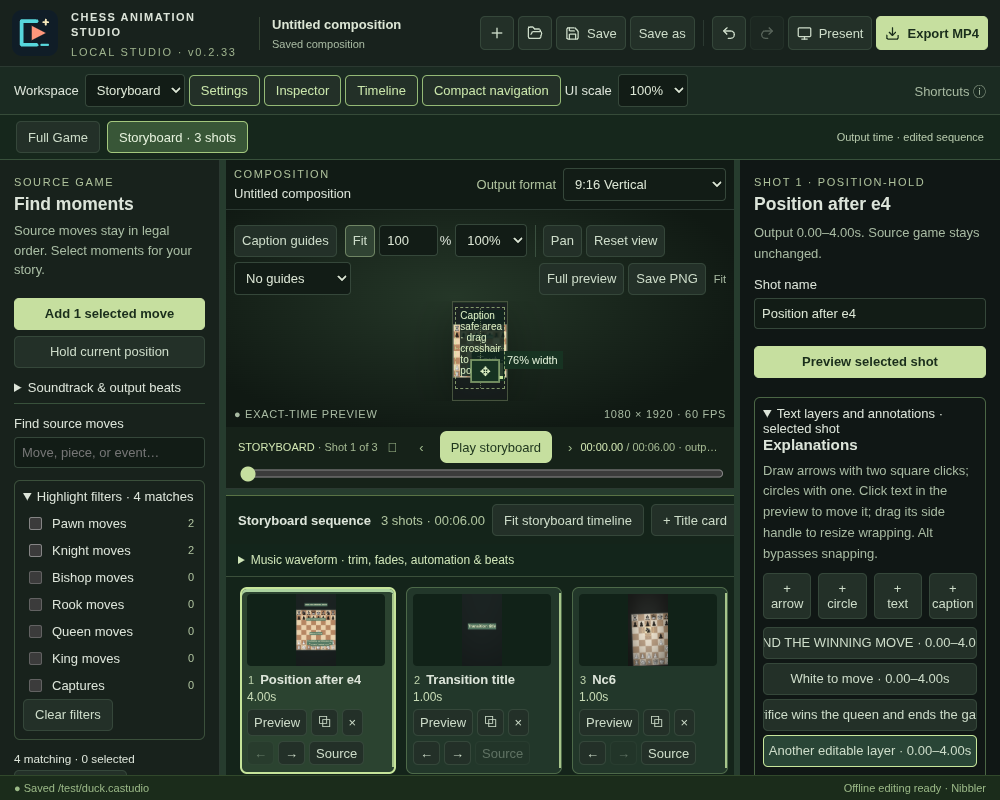
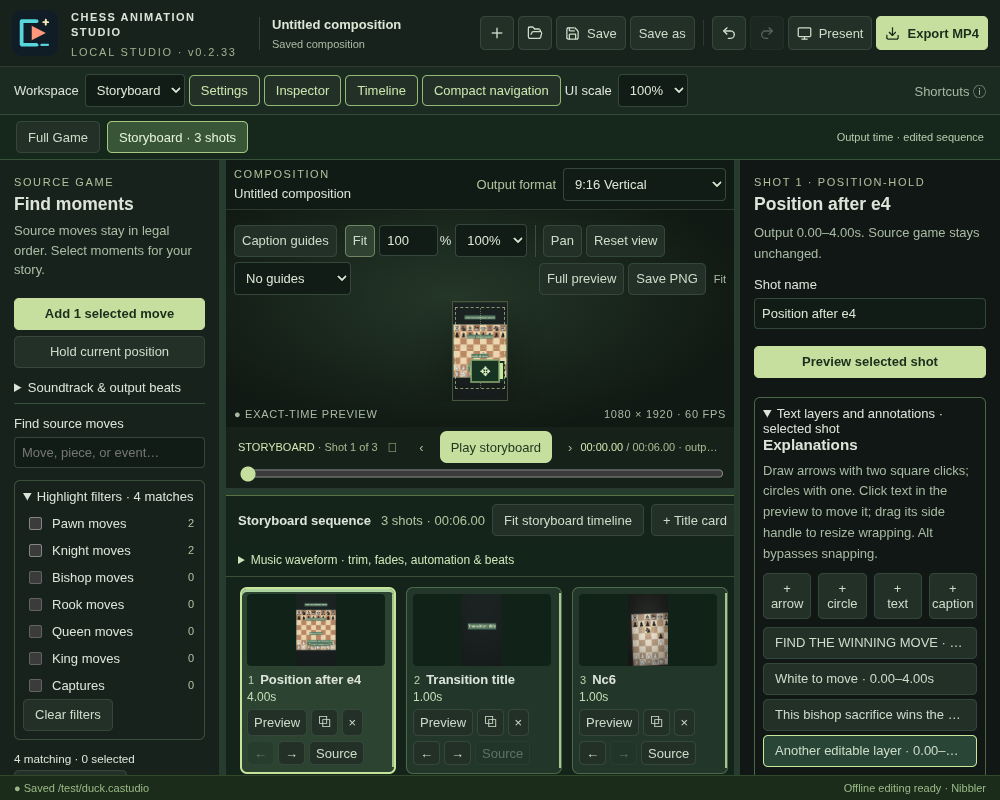
fix: keep text layers and guides readable in narrow workspaces

diff --git a/src/ui/storyboard/storyboard.css b/src/ui/storyboard/storyboard.css
@@ -608,3 +608,14 @@
 .annotation-editor .layer-actions button {
   flex: 1 1 80px;
 }
+/* Layer labels keep their leading words when space is limited. */
+.text-layer-list button {
+  display: block;
+  width: 100%;
+}
+@media (max-width: 1100px) {
+  .caption-guides > span,
+  .text-layer-label {
+    display: none;
+  }
+}

diff --git a/docs/composition-033/REPORT.md b/docs/composition-033/REPORT.md
@@ -87,3 +87,5 @@ The composition UI suite additionally passed topmost overlapping-layer selection
 `npm run test:render -- final` passed **216 render requests / 168 unique fixtures**, including graphics recovery and repeated-size rendering. It measured software-rendered 1080p median frame costs of 733.7 ms without bloom and 851.6 ms with bloom under local validation load; 4K medians were 1578.5/2007.9 ms. These figures describe this SwiftShader environment, not interactive physical GPU frame rates. Transition textures are allocated on first use and retained for reuse until resize or scene disposal.
 
 A final visual-review correction makes text selection reveal its actual inspector field without stealing focus from the drag/keyboard surface. Fullscreen selection keeps the editor surface in focus. The production build passed again after that correction.
+
+Final narrow-layout polish keeps the leading words of each text-layer label visible and suppresses explanatory guide labels on very small editor windows. The guide rectangle and editing handles remain available. A fresh composition UI run passed after the inspector and layout corrections, with zero page errors. At small sizes, Full preview and the existing panel toggles provide more composition space.
